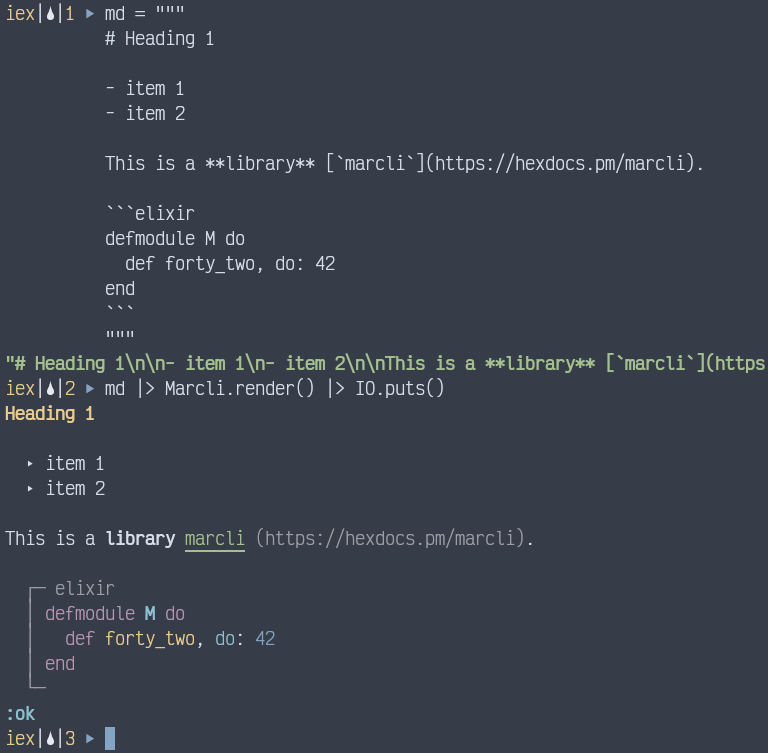
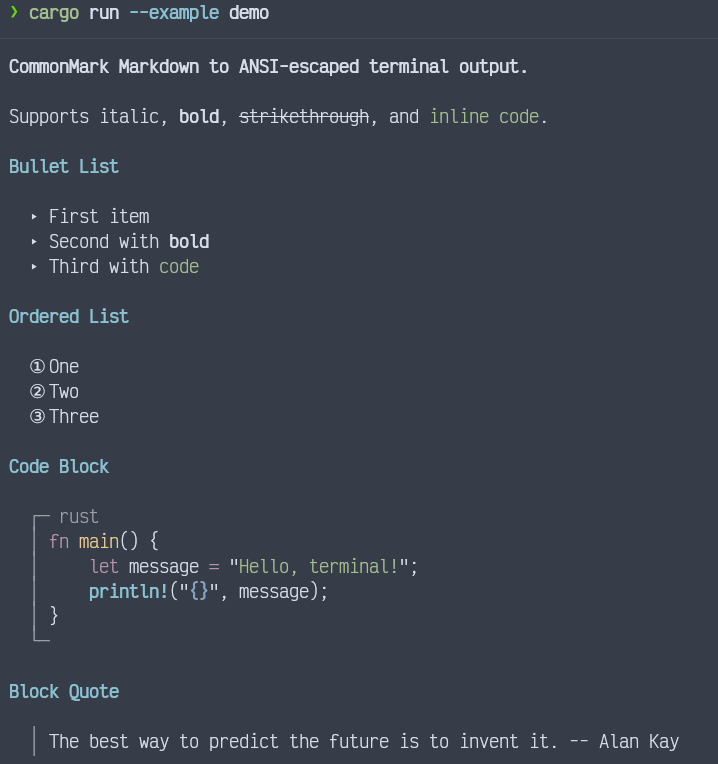
Update theme and images

diff --git a/src/theme.rs b/src/theme.rs
@@ -114,6 +114,31 @@ pub fn default_syntax() -> HashMap<String, String> {
     m.insert("operator_word".into(), "\x1b[35m".into());
     // Punctuation
     m.insert("punctuation".into(), String::new());
+    // -- TextMate / syntect scope mappings ---
+    // Storage (fn, let, mut, struct, impl, ...)
+    m.insert("storage".into(), "\x1b[35m".into());
+    m.insert("storage_type".into(), "\x1b[35m".into());
+    m.insert("storage_modifier".into(), "\x1b[35m".into());
+    // Entity (function names, type names, tags)
+    m.insert("entity".into(), "\x1b[33m".into());
+    m.insert("entity_name".into(), "\x1b[33m".into());
+    m.insert("entity_other".into(), "\x1b[33m".into());
+    // Support (macros, built-in functions/types)
+    m.insert("support".into(), "\x1b[36m".into());
+    m.insert("support_macro".into(), "\x1b[1;36m".into());
+    m.insert("support_function".into(), "\x1b[36m".into());
+    m.insert("support_type".into(), "\x1b[36m".into());
+    m.insert("support_constant".into(), "\x1b[36m".into());
+    // Constants (numeric literals, language constants, placeholders)
+    m.insert("constant".into(), "\x1b[34m".into());
+    m.insert("constant_numeric".into(), "\x1b[34m".into());
+    m.insert("constant_language".into(), "\x1b[36m".into());
+    m.insert("constant_character".into(), "\x1b[32m".into());
+    m.insert("constant_other".into(), "\x1b[1;34m".into());
+    // Variable
+    m.insert("variable".into(), "\x1b[37m".into());
+    m.insert("variable_other".into(), "\x1b[37m".into());
+    m.insert("variable_parameter".into(), "\x1b[37m".into());
     // Generic
     m.insert("generic_deleted".into(), "\x1b[31m".into());
     m.insert("generic_emph".into(), "\x1b[3m".into());

diff --git a/examples/debug_scopes.rs b/examples/debug_scopes.rs
@@ -1,0 +1,42 @@
+use syntect::parsing::{SyntaxSet, ScopeStackOp};
+
+fn main() {
+    let ss = SyntaxSet::load_defaults_newlines();
+    let syntax = ss.find_syntax_by_token("rust").unwrap();
+    let mut state = syntect::parsing::ParseState::new(syntax);
+
+    let code = r#"fn main() {
+    let message = "Hello, terminal!";
+    println!("{}", message);
+}"#;
+
+    for line in code.lines() {
+        let ops = state.parse_line(line, &ss).unwrap();
+        let mut pos = 0;
+        let mut stack: Vec<syntect::parsing::Scope> = Vec::new();
+
+        for (offset, op) in &ops {
+            if *offset > pos {
+                let text = &line[pos..*offset];
+                let scope_str = stack.last().map(|s| s.build_string()).unwrap_or_default();
+                if !text.trim().is_empty() {
+                    println!("{:30} -> {}", format!("{:?}", text), scope_str);
+                }
+                pos = *offset;
+            }
+            match op {
+                ScopeStackOp::Push(scope) => stack.push(*scope),
+                ScopeStackOp::Pop(n) => { for _ in 0..*n { stack.pop(); } },
+                ScopeStackOp::Restore => stack.clear(),
+                _ => {}
+            }
+        }
+        if pos < line.len() {
+            let text = &line[pos..];
+            let scope_str = stack.last().map(|s| s.build_string()).unwrap_or_default();
+            if !text.trim().is_empty() {
+                println!("{:30} -> {}", format!("{:?}", text), scope_str);
+            }
+        }
+    }
+}

diff --git a/examples/demo.rs b/examples/demo.rs
@@ -1,0 +1,53 @@
+use marcli::{render, RenderOptions};
+
+fn main() {
+    let md = r#"# Marcli
+
+**CommonMark Markdown to ANSI-escaped terminal output.**
+
+Supports *italic*, **bold**, ~~strikethrough~~, and `inline code`.
+
+## Bullet List
+
+- First item
+- Second with **bold**
+- Third with `code`
+
+## Ordered List
+
+1. One
+2. Two
+3. Three
+
+## Code Block
+
+```rust
+fn main() {
+    let message = "Hello, terminal!";
+    println!("{}", message);
+}
+```
+
+## Block Quote
+
+> The best way to predict the future is to invent it.
+> -- Alan Kay
+
+---
+
+## Table
+
+| Language | Paradigm    | Year |
+|----------|-------------|------|
+| Rust     | Systems     | 2010 |
+| Elixir   | Functional  | 2011 |
+| Zig      | Systems     | 2016 |
+
+## Links
+
+Check out [Marcli on GitHub](https://github.com/Oeditus/marcli-rust) for more.
+"#;
+
+    let output = render(md, &RenderOptions::default());
+    println!("{}", output);
+}
